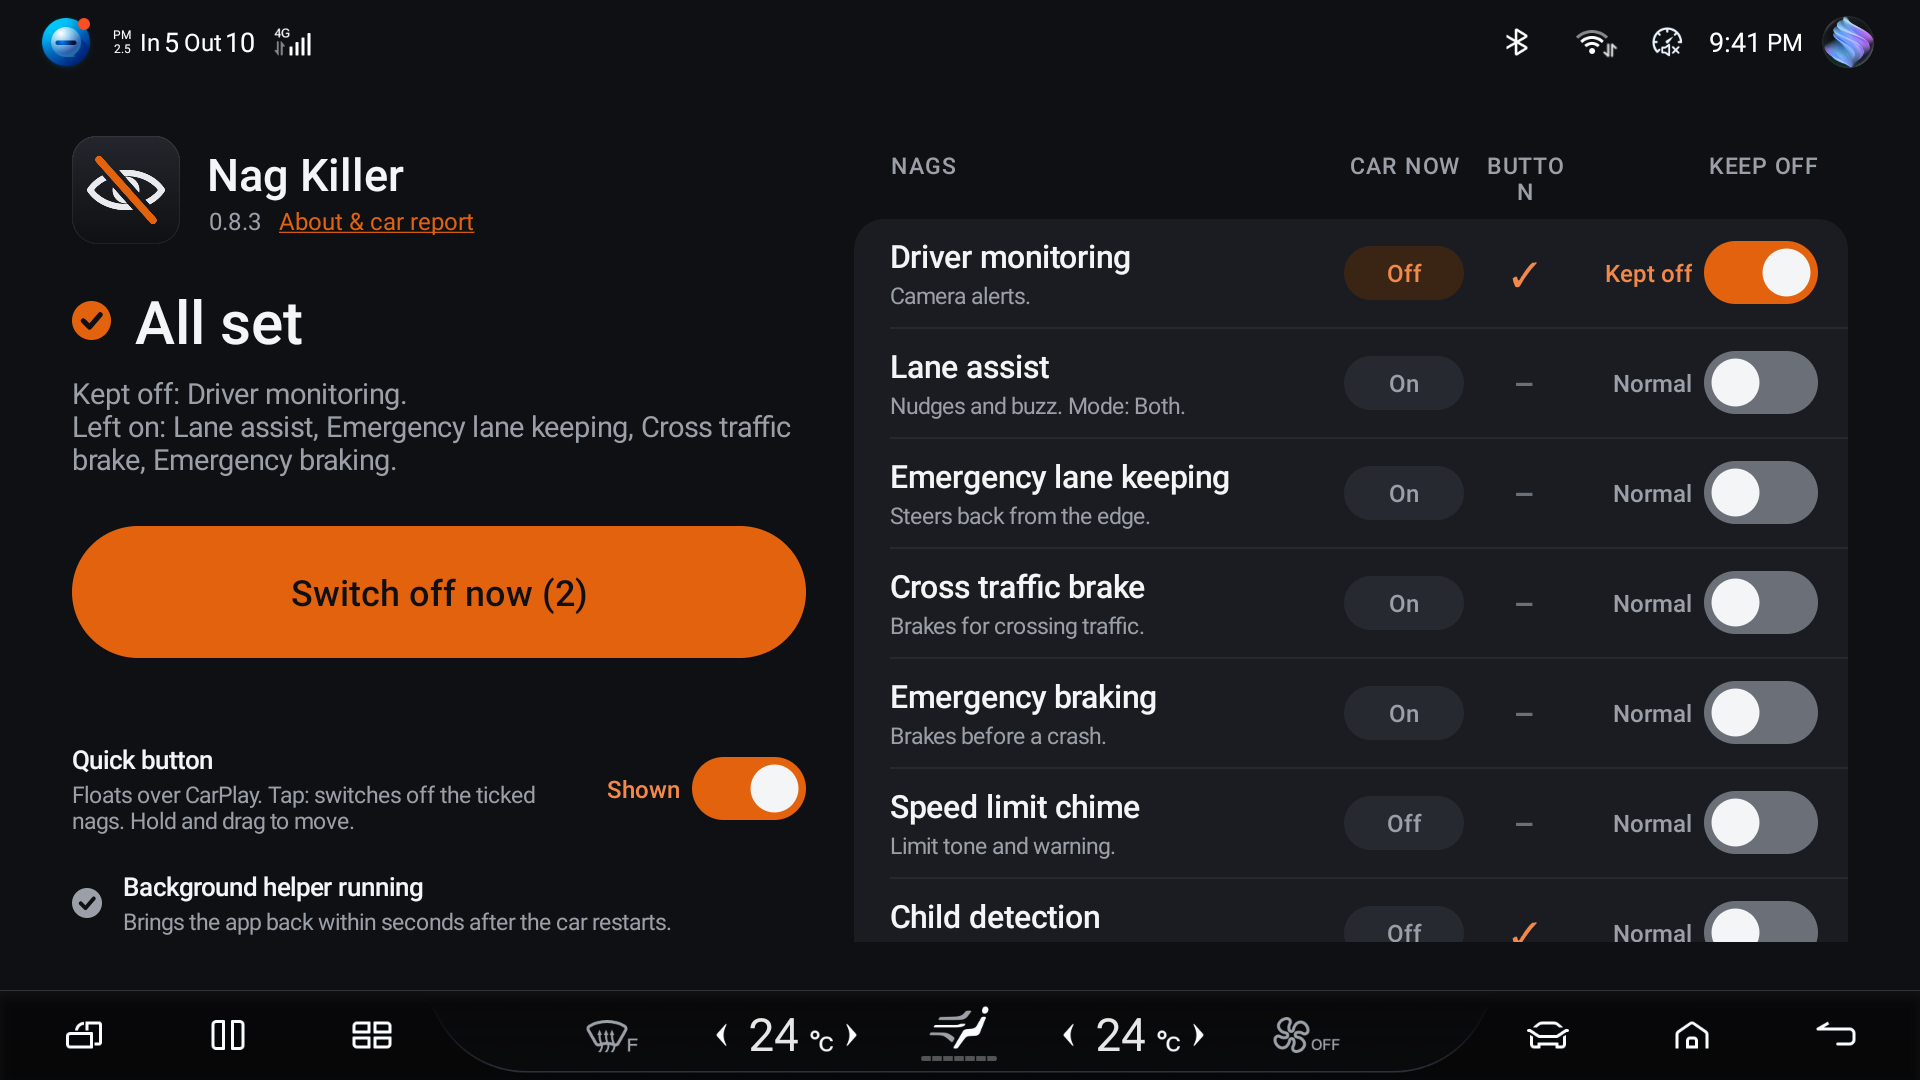
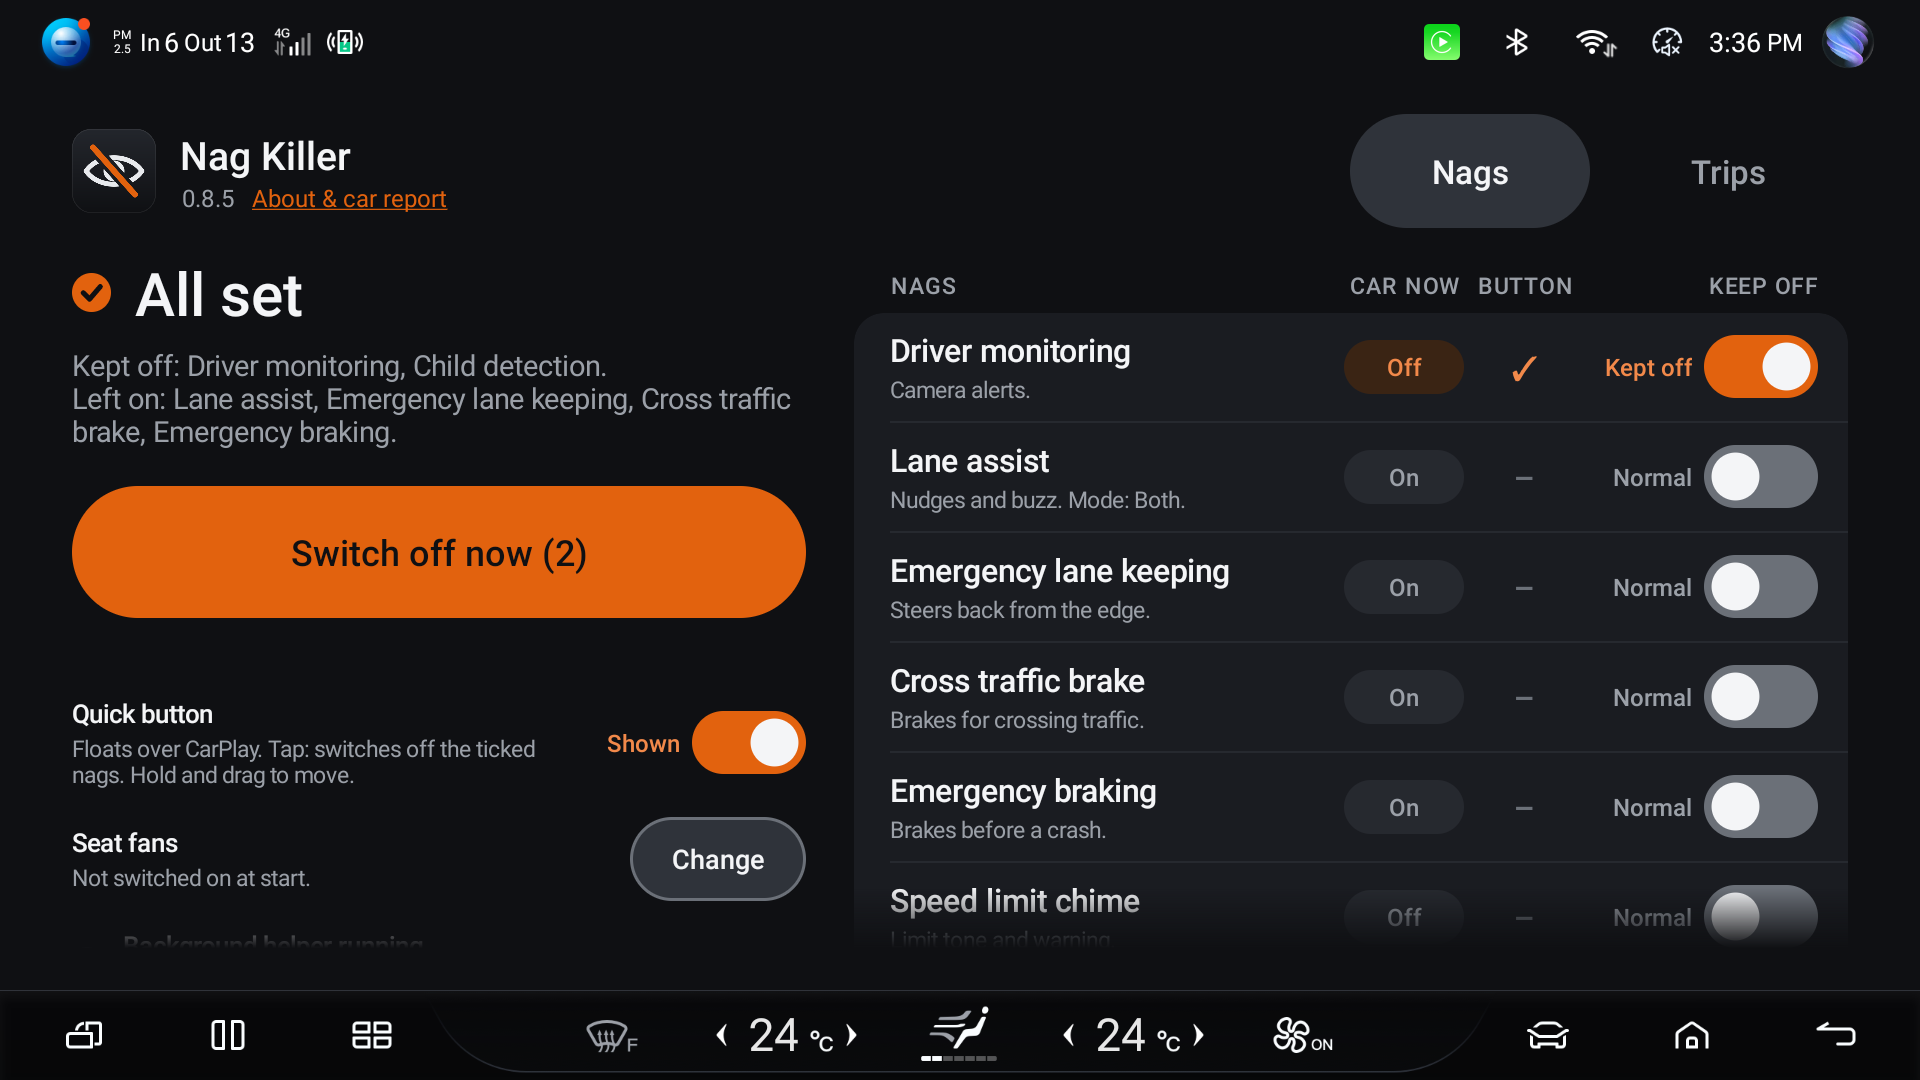
0.8.5: Trips tab, scroll fade, README

diff --git a/app/src/au/jaso/naglab/MainActivity.java b/app/src/au/jaso/naglab/MainActivity.java
@@ -248,6 +248,10 @@ public class MainActivity extends Activity {
     private ScrollView scroller(LinearLayout col) {
         ScrollView sv = new ScrollView(this);
         sv.setVerticalScrollBarEnabled(false);
+        // The column can be taller than the screen (header tabs since 0.8.5): fade the cut edge
+        // so it reads as "scroll for more", not as clipped text.
+        sv.setVerticalFadingEdgeEnabled(true);
+        sv.setFadingEdgeLength((int) (40 * getResources().getDisplayMetrics().density));
         sv.setFillViewport(true);
         col.setOrientation(LinearLayout.VERTICAL);
         col.setGravity(Gravity.CENTER_VERTICAL);

diff --git a/README.md b/README.md
@@ -3,7 +3,8 @@
 # Nag Killer for BYD Sealion 7
 
 An Android app that runs on the car's screen and keeps the nags you don't want switched off,
-every time you start the car. It can also put your seat fans on for you at every start.
+every time you start the car. It can also put your seat fans on for you at every start, and it
+keeps a log of your trips.
 
 It can turn off:
 
@@ -36,6 +37,19 @@ confirmed it on theirs. Other models haven't been tried.
 No more pressing the seat fan buttons every drive. Pick Off, Low or High for the driver and
 passenger seats and the app switches them on a few seconds after each start. After that it
 leaves them alone, so if you turn one off mid-drive it stays off until the next start.
+
+## Trips
+
+A Trips tab with every drive: distance, time, energy used, kWh/100km and battery % at the start
+and end, plus a bar chart for the week. It copies the car's own trip counter (the one the dash
+shows when you turn the car off), so the numbers match the car. Stops under 10 minutes are shown
+as one trip. While you're driving it only shows the current trip; the history appears when you're
+in Park.
+
+It reads the car a few times a minute and saves to a small file on the car. Nothing goes online.
+You can switch it off on the Trips tab.
+
+![Trips tab](img/trips.png)
 
 ## Install
 
@@ -125,7 +139,7 @@ It doesn't touch Overdrive. If you use Overdrive, the script also wakes it when 
 On my car: DMS, lane assist, child detection, the speed chime, AEB, cross traffic brake and
 emergency lane keeping all go off and come back properly, they're switched off again after a
 restart, the app comes back after the car turns off and after the screen reboots, and it
-survives a night parked. Seat fans come back on at Low or High after a restart. The over-limit warning switch hasn't been confirmed yet because it
+survives a night parked. Seat fans come back on at Low or High after a restart. Trips match the car's own trip summary. The over-limit warning switch hasn't been confirmed yet because it
 was already off on my car.
 
 ## Other BYDs
